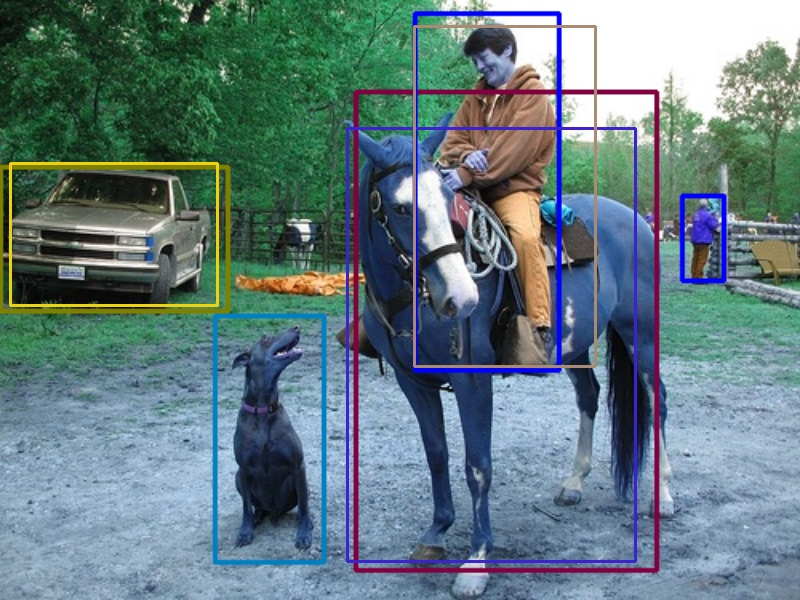
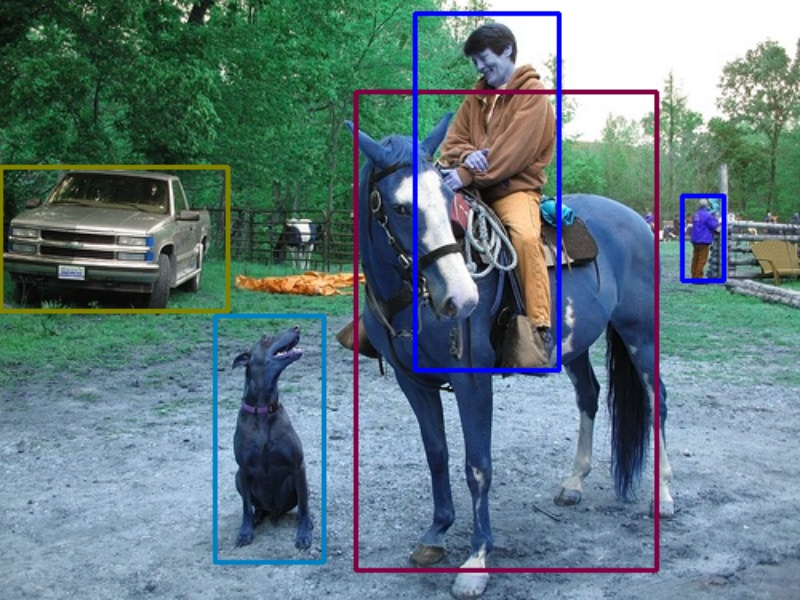
verify end2end training result & seems ok

Changed region(s): [[0.4062, 0.03, 0.8125, 0.96], [0.0, 0.27, 0.2812, 0.54]]

diff --git a/rcnn/symbol.py b/rcnn/symbol.py
@@ -300,7 +300,7 @@ def get_vgg_test(num_classes=21, num_anchors=9):
     group = mx.symbol.Group([rois, cls_prob, bbox_pred])
     return group
 
-def get_faster_rcnn(num_classes=21, num_anchors=9, is_train=False):
+def get_faster_rcnn(num_classes=21, num_anchors=9):
     """
     Faster R-CNN with VGG 16 conv layers
     :param num_classes: used to determine output size
@@ -345,10 +345,10 @@ def get_faster_rcnn(num_classes=21, num_anchors=9, is_train=False):
 
     rpn_roi = mx.symbol.Custom(
         cls_prob=rpn_cls_prob_reshape, bbox_pred=rpn_bbox_pred, im_info=im_info, name='rpn_rois',
-        op_type='proposal', feat_stride=16, scales=(8, 16, 32), ratios=(0.5, 1, 2), is_train=is_train)  # TODO(be careful of cls_prob)
+        op_type='proposal', feat_stride=16, scales=(8, 16, 32), ratios=(0.5, 1, 2), is_train=True)  # TODO(be careful of cls_prob)
     rois = mx.symbol.Custom(
         rpn_roi=rpn_roi, gt_boxes=gt_boxes, name='rois', op_type='proposal_target',
-        num_classes=num_classes, is_train=is_train)  #
+        num_classes=num_classes, is_train=True)  #
 
     # R-CNN
     pool5 = mx.symbol.ROIPooling(
@@ -377,12 +377,72 @@ def get_faster_rcnn(num_classes=21, num_anchors=9, is_train=False):
 
     # reshape output
     cls_prob = mx.symbol.Reshape(data=cls_prob, shape=(config.TRAIN.IMS_PER_BATCH, -1, num_classes), name='cls_prob_reshape')
-    bbox_loss = mx.symbol.Reshape(data=bbox_loss, shape=(config.TRAIN.IMS_PER_BATCH, -1, 4 * num_classes), name='bbox_loss_reshape')
+    bbox_pred = mx.symbol.Reshape(data=bbox_loss, shape=(config.TRAIN.IMS_PER_BATCH, -1, 4 * num_classes), name='bbox_pred_reshape')
 
     # group output
-    if is_train:
-        group = mx.symbol.Group([rois[1], rpn_cls_loss, rpn_bbox_loss, cls_prob, bbox_loss])  # rois[1] is used for evaluation
-    else:
-        group = mx.symbol.Group([rpn_cls_loss, rpn_bbox_loss, cls_prob, bbox_loss])
+    group = mx.symbol.Group([rois[1], rpn_cls_loss, rpn_bbox_loss, cls_prob, bbox_pred])  # rois[1] is used for evaluation
+
+    return group
+
+def get_faster_rcnn_test(num_classes=21, num_anchors=9):
+    """
+    Faster R-CNN with VGG 16 conv layers, for inference
+    :param num_classes: used to determine output size
+    :return: Symbol
+    """
+    data = mx.symbol.Variable(name="data")
+    im_info = mx.symbol.Variable(name="im_info")
+
+    relu5_3 = get_vgg_conv(data)
+
+    ## RPN
+    rpn_conv = mx.symbol.Convolution(
+        data=relu5_3, kernel=(3, 3), pad=(1, 1), num_filter=512, name="rpn_conv_3x3")
+    rpn_relu = mx.symbol.Activation(data=rpn_conv, act_type="relu", name="rpn_relu")
+    rpn_cls_score = mx.symbol.Convolution(
+        data=rpn_relu, kernel=(1, 1), pad=(0, 0), num_filter=2 * num_anchors, name="rpn_cls_score")
+    rpn_bbox_pred = mx.symbol.Convolution(
+        data=rpn_relu, kernel=(1, 1), pad=(0, 0), num_filter=4 * num_anchors, name="rpn_bbox_pred")
+    # prepare rpn data
+    rpn_cls_score_reshape = mx.symbol.Reshape(
+        data=rpn_cls_score, shape=(0, 2, -1, 0), name="rpn_cls_score_reshape")
+
+    rpn_cls_prob = mx.symbol.SoftmaxActivation(
+        data=rpn_cls_score_reshape, mode="channel", name="rpn_cls_prob")
+    rpn_cls_prob_reshape = mx.symbol.Reshape(
+        data=rpn_cls_prob, shape=(0, 2 * num_anchors, -1, 0), name='rpn_cls_prob_reshape')
+
+    rpn_roi = mx.symbol.Custom(
+        cls_prob=rpn_cls_prob_reshape, bbox_pred=rpn_bbox_pred, im_info=im_info, name='rpn_rois',
+        op_type='proposal', feat_stride=16, scales=(8, 16, 32), ratios=(0.5, 1, 2), is_train=False)
+
+    # R-CNN
+    pool5 = mx.symbol.ROIPooling(
+        name='roi_pool5', data=relu5_3, rois=rpn_roi, pooled_size=(7, 7), spatial_scale=0.0625)
+
+    # group 6
+    flatten = mx.symbol.Flatten(data=pool5, name="flatten")
+    fc6 = mx.symbol.FullyConnected(data=flatten, num_hidden=4096, name="fc6")
+    relu6 = mx.symbol.Activation(data=fc6, act_type="relu", name="relu6")
+    drop6 = mx.symbol.Dropout(data=relu6, p=0.5, name="drop6")
+    # group 7
+    fc7 = mx.symbol.FullyConnected(data=drop6, num_hidden=4096, name="fc7")
+    relu7 = mx.symbol.Activation(data=fc7, act_type="relu", name="relu7")
+    drop7 = mx.symbol.Dropout(data=relu7, p=0.5, name="drop7")
+    # classification
+    cls_score = mx.symbol.FullyConnected(name='cls_score', data=drop7, num_hidden=num_classes)
+
+
+    cls_prob = mx.symbol.SoftmaxActivation(name='cls_prob', data=cls_score)
+    # bounding box regression
+    bbox_pred = mx.symbol.FullyConnected(name='bbox_pred', data=drop7, num_hidden=num_classes * 4)
+
+
+    # reshape output
+    cls_prob = mx.symbol.Reshape(data=cls_prob, shape=(config.TRAIN.IMS_PER_BATCH, -1, num_classes), name='cls_prob_reshape')
+    bbox_pred = mx.symbol.Reshape(data=bbox_pred, shape=(config.TRAIN.IMS_PER_BATCH, -1, 4 * num_classes), name='bbox_pred_reshape')
+
+    # group output
+    group = mx.symbol.Group([rpn_roi, cls_prob, bbox_pred])
 
     return group

diff --git a/rcnn/metric.py b/rcnn/metric.py
@@ -1,3 +1,8 @@
+"""
+if config.END2END = 1, then preds =
+[cls_label, rpn_cls_loss, rpn_bbox_loss, cls_loss, bbox_loss]
+"""
+
 import mxnet as mx
 import numpy as np
 
@@ -9,7 +14,7 @@ class AccuracyMetric(mx.metric.EvalMetric):
         super(AccuracyMetric, self).__init__('Accuracy')
         self.use_ignore = use_ignore
         self.ignore = ignore
-        self.has_rpn = config.TRAIN.HAS_RPN and config.TRAIN.END2END != 1
+        self.has_rpn = config.TRAIN.HAS_RPN and config.END2END != 1
         if self.has_rpn:
             assert self.use_ignore and self.ignore is not None
 
@@ -21,7 +26,7 @@ class AccuracyMetric(mx.metric.EvalMetric):
             pred_label = pred_label[non_ignore_inds]
             label = label[non_ignore_inds]
         else:
-            if config.TRAIN.END2END != 1:
+            if config.END2END != 1:
                 last_dim = preds[0].shape[-1]
                 pred_label = preds[0].asnumpy().reshape(-1, last_dim).argmax(axis=1).astype('int32')
                 label = labels[0].asnumpy().reshape(-1,).astype('int32')
@@ -40,7 +45,7 @@ class LogLossMetric(mx.metric.EvalMetric):
         super(LogLossMetric, self).__init__('LogLoss')
         self.use_ignore = use_ignore
         self.ignore = ignore
-        self.has_rpn = config.TRAIN.HAS_RPN and config.TRAIN.END2END != 1
+        self.has_rpn = config.TRAIN.HAS_RPN and config.END2END != 1
         if self.has_rpn:
             assert self.use_ignore and self.ignore is not None
 
@@ -52,7 +57,7 @@ class LogLossMetric(mx.metric.EvalMetric):
             label = label[non_ignore_inds]
             cls = pred_cls[label, non_ignore_inds]
         else:
-            if config.TRAIN.END2END != 1:
+            if config.END2END != 1:
                 last_dim = preds[0].shape[-1]
                 pred_cls = preds[0].asnumpy().reshape(-1, last_dim)
                 label = labels[0].asnumpy().reshape(-1,).astype('int32')
@@ -72,14 +77,14 @@ class LogLossMetric(mx.metric.EvalMetric):
 class SmoothL1LossMetric(mx.metric.EvalMetric):
     def __init__(self):
         super(SmoothL1LossMetric, self).__init__('SmoothL1Loss')
-        self.has_rpn = config.TRAIN.HAS_RPN and config.TRAIN.END2END != 1
+        self.has_rpn = config.TRAIN.HAS_RPN and config.END2END != 1
 
     def update(self, labels, preds):
         bbox_loss = preds[1].asnumpy()
         if self.has_rpn:
             bbox_loss = bbox_loss.reshape((bbox_loss.shape[0], -1))
         else:
-            if config.TRAIN.END2END != 1:
+            if config.END2END != 1:
                 first_dim = bbox_loss.shape[0] * bbox_loss.shape[1]
                 bbox_loss = bbox_loss.reshape(first_dim, -1)
             else:

diff --git a/rcnn/loader.py b/rcnn/loader.py
@@ -185,14 +185,14 @@ class AnchorLoader(mx.io.DataIter):
         self.get_batch()
         self.data_name = ['data', 'im_info']
         self.label_name = ['label', 'bbox_target', 'bbox_inside_weight', 'bbox_outside_weight']
-        if config.TRAIN.END2END == 1:
+        if config.END2END == 1:
             self.label_name.append('gt_boxes')
 
     @property
     def provide_data(self):
         if self.mode == 'train':
             provide_data_ = [('data', self.data[0].shape)]
-            if config.TRAIN.END2END == 1:
+            if config.END2END == 1:
                 provide_data_.append(('im_info', self.data[1].shape))
             return provide_data_
         else:
@@ -205,7 +205,7 @@ class AnchorLoader(mx.io.DataIter):
                               ('bbox_target', self.label[1].shape),
                               ('bbox_inside_weight', self.label[2].shape),
                               ('bbox_outside_weight', self.label[3].shape)]
-            if config.TRAIN.END2END == 1:
+            if config.END2END == 1:
                 provide_label_.append(('gt_boxes', self.label[4].shape))
             return provide_label_
         else:
@@ -302,7 +302,7 @@ class AnchorLoader(mx.io.DataIter):
             all_data = dict()
             for key in ['data']:
                 all_data[key] = tensor_vstack([batch[key] for batch in data_list])
-            if config.TRAIN.END2END == 1:
+            if config.END2END == 1:
                 for key in ['im_info']:
                     all_data[key] = tensor_vstack([batch[key] for batch in data_list])
 
@@ -310,7 +310,7 @@ class AnchorLoader(mx.io.DataIter):
             all_label['label'] = tensor_vstack([batch['label'] for batch in new_label_list], pad=-1)
             for key in ['bbox_target', 'bbox_inside_weight', 'bbox_outside_weight']:
                 all_label[key] = tensor_vstack([batch[key] for batch in new_label_list])
-            if config.TRAIN.END2END == 1:
+            if config.END2END == 1:
                 for key in ['gt_boxes']:
                     all_label[key] = tensor_vstack([batch[key] for batch in new_label_list])
 
@@ -321,6 +321,6 @@ class AnchorLoader(mx.io.DataIter):
                           mx.nd.array(all_label['bbox_inside_weight']),
                           mx.nd.array(all_label['bbox_outside_weight'])]
 
-            if config.TRAIN.END2END == 1:
+            if config.END2END == 1:
                 self.data.append(mx.nd.array(all_data['im_info']))
                 self.label.append(mx.nd.array(all_label['gt_boxes']))

diff --git a/demo.py b/demo.py
@@ -11,14 +11,17 @@ from helper.processing.image_processing import resize, transform
 from helper.processing.nms import nms
 from rcnn.config import config
 from rcnn.detector import Detector
-from rcnn.symbol import get_vgg_test
+from rcnn.symbol import get_vgg_test, get_faster_rcnn_test
 from rcnn.tester import vis_all_detection, save_all_detection
 from utils.load_model import load_param
 
 
 def get_net(prefix, epoch, ctx):
     args, auxs = load_param(prefix, epoch, convert=True, ctx=ctx)
-    sym = get_vgg_test()
+    if not config.END2END:
+        sym = get_vgg_test()
+    else:
+        sym = get_faster_rcnn_test()
     detector = Detector(sym, ctx, args, auxs)
     return detector
 
@@ -38,7 +41,11 @@ def demo_net(detector, image_name, vis=False):
     :param image_name: image name
     :return: None
     """
-    config.TEST.HAS_RPN = True
+
+    # config.TRAIN.BBOX_NORMALIZATION_PRECOMPUTED = True
+    # config.TRAIN.BG_THRESH_HI = 0.5
+    # config.TRAIN.BG_THRESH_LO = 0.0
+    # config.TRAIN.RPN_MIN_SIZE = 16
     assert os.path.exists(image_name), image_name + ' not found'
     im = cv2.imread(image_name)
     im_array, im_scale = resize(im, config.SCALES[0], config.MAX_SIZE)
@@ -75,11 +82,16 @@ def parse_args():
     parser.add_argument('--epoch', dest='epoch', help='epoch of pretrained model', type=int)
     parser.add_argument('--gpu', dest='gpu_id', help='GPU device to test with',
                         default=0, type=int)
+    parser.add_argument('--end2end', action='store_true', default=False,
+                        help='if true, means the using end2end pretrained model')
     args = parser.parse_args()
     return args
 
 if __name__ == '__main__':
     args = parse_args()
+    if args.end2end:
+        config.END2END = 1
+        config.TEST.HAS_RPN = True
     ctx = mx.gpu(args.gpu_id)
     detector = get_net(args.prefix, args.epoch, ctx)
     demo_net(detector, args.image)

diff --git a/train_end2end.py b/train_end2end.py
@@ -33,9 +33,9 @@ def end2end_train(image_set, test_image_set, year, root_path, devkit_path, pretr
 
     logging.info('########## TRAIN FASTER-RCNN WITH APPROXIMATE JOINT END2END #############')
     config.TRAIN.HAS_RPN = True
-    config.TRAIN.END2END = 1
+    config.END2END = 1
     config.TRAIN.BBOX_NORMALIZATION_PRECOMPUTED = True
-    sym = get_faster_rcnn(is_train=True)
+    sym = get_faster_rcnn()
     feat_sym = sym.get_internals()['rpn_cls_score_output']
 
      # setup multi-gpu
@@ -126,6 +126,7 @@ def end2end_train(image_set, test_image_set, year, root_path, devkit_path, pretr
             means = np.tile(np.array(config.TRAIN.BBOX_MEANS), (1, num_classes))
             stds = np.tile(np.array(config.TRAIN.BBOX_STDS), (1, num_classes))
             arg_params, aux_params = load_checkpoint(prefix, epoch)
+            import pdb; pdb.set_trace()
             arg_params['bbox_pred_weight'] = (arg_params['bbox_pred_weight'].T * mx.nd.array(stds)).T
             arg_params['bbox_pred_bias'] = arg_params['bbox_pred_bias'] * mx.nd.array(np.squeeze(stds)) + \
                                            mx.nd.array(np.squeeze(means))

diff --git a/rcnn/detector.py b/rcnn/detector.py
@@ -48,7 +48,8 @@ class Detector(object):
 
         # fill in label and aux
         arg_shapes_dict = {name: shape for name, shape in zip(self.symbol.list_arguments(), arg_shapes)}
-        self.arg_params['cls_prob_label'] = mx.nd.zeros(arg_shapes_dict['cls_prob_label'], self.ctx)
+        if not config.END2END:
+            self.arg_params['cls_prob_label'] = mx.nd.zeros(arg_shapes_dict['cls_prob_label'], self.ctx)
         aux_names = self.symbol.list_auxiliary_states()
         self.aux_params = {k: mx.nd.zeros(s, self.ctx) for k, s in zip(aux_names, aux_shapes)}
 
@@ -62,7 +63,10 @@ class Detector(object):
         scores = output_dict['cls_prob_reshape_output'].asnumpy()[0]
         bbox_deltas = output_dict['bbox_pred_reshape_output'].asnumpy()[0]
         if config.TEST.HAS_RPN:
-            rois = output_dict['rois_output'].asnumpy()
+            if not config.END2END:
+                rois = output_dict['rois_output'].asnumpy()
+            else:
+                rois = output_dict['rpn_rois_output'].asnumpy()
             rois = rois[:, 1:].copy()  # scale back
         else:
             rois = roi_array[:, 1:]

diff --git a/rcnn/minibatch.py b/rcnn/minibatch.py
@@ -389,7 +389,7 @@ def assign_anchor(feat_shape, gt_boxes, im_info, feat_stride=16,
              'bbox_inside_weight': bbox_inside_weights,
              'bbox_outside_weight': bbox_outside_weights}
 
-    if config.TRAIN.END2END == 1:
+    if config.END2END == 1:
         label.update({'gt_boxes': gt_boxes})
 
     return label

diff --git a/rcnn/config.py b/rcnn/config.py
@@ -43,7 +43,7 @@ config.TRAIN.RPN_POSITIVE_WEIGHT = -1.0
 
 # used for end2end training
 # RPN proposal
-config.TRAIN.END2END = 0
+config.END2END = 0
 config.TRAIN.RPN_NMS_THRESH = 0.7
 config.TRAIN.RPN_PRE_NMS_TOP_N = 12000
 config.TRAIN.RPN_POST_NMS_TOP_N = 6000

diff --git a/README.md b/README.md
@@ -24,8 +24,8 @@ and Fast R-CNN. Fast R-CNN weights are used to initiate RPN for training.
   Suppose you have downloaded pretrained network and place the extracted file `final-0000.params` in this folder and there is an image named `myimage.jpg`.
   
 ## Show Result
-* official train alternate model
-  ![train alternate](./result.jpg)
+* model with approximate joint end2end training
+  ![train approximate](./result.jpg)
 
 ## Training and Testing Faster R-CNN
 * Install additional python package `scipy`.
